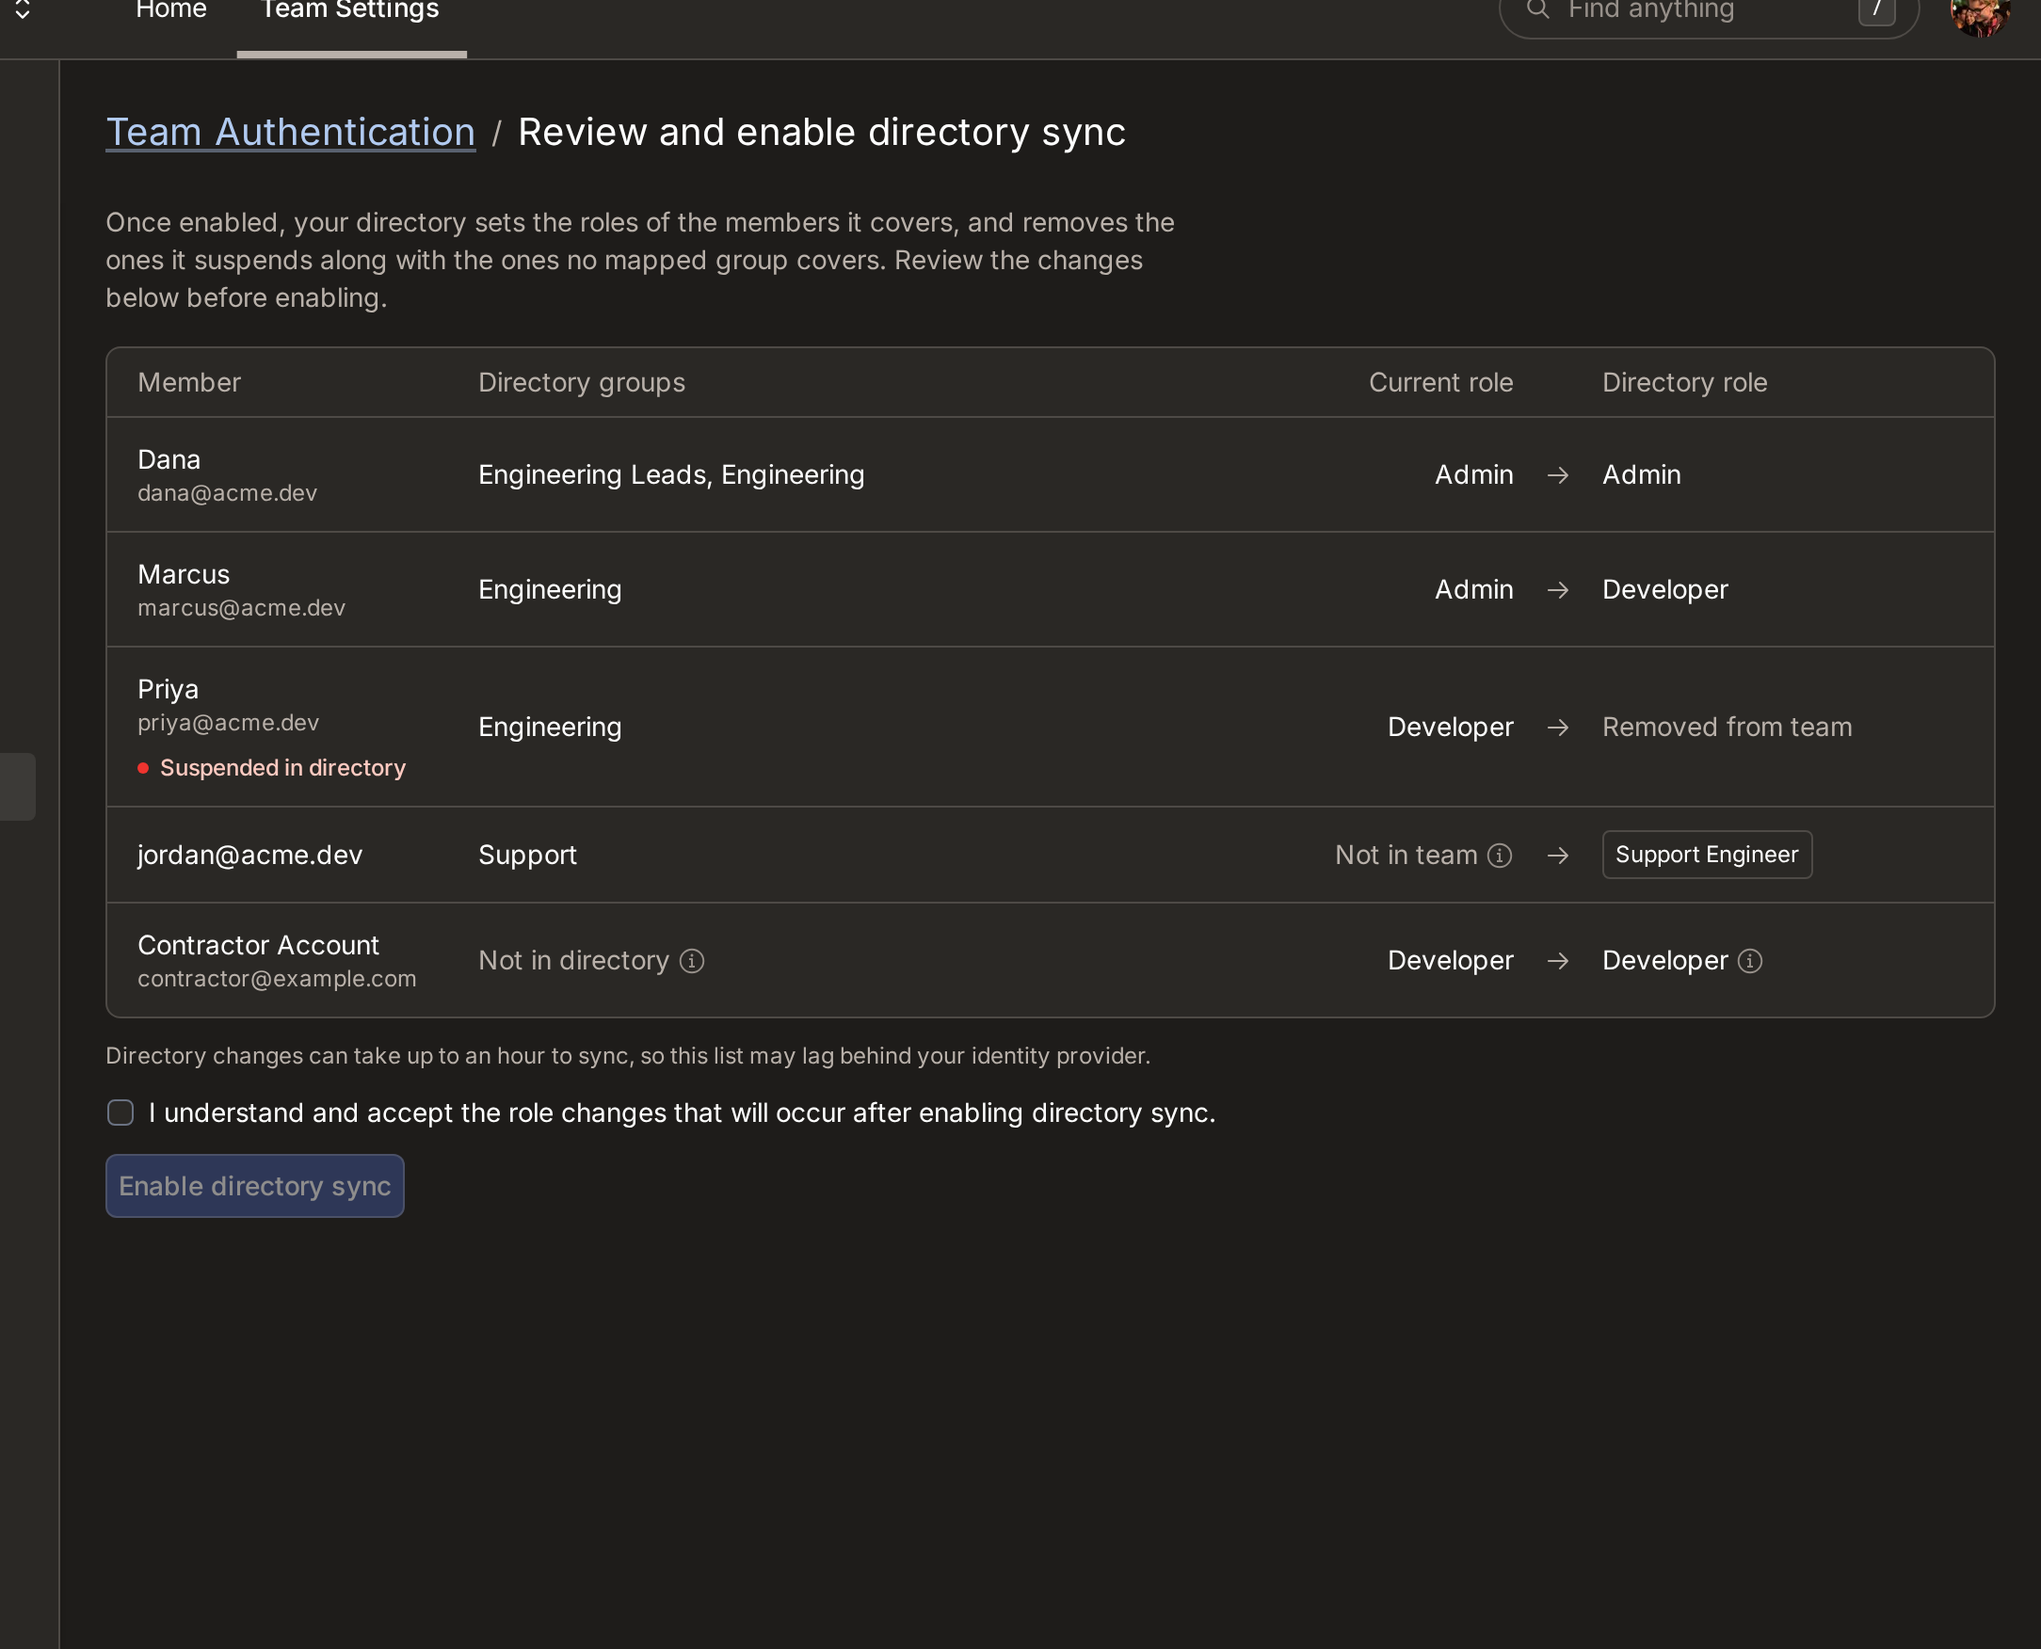
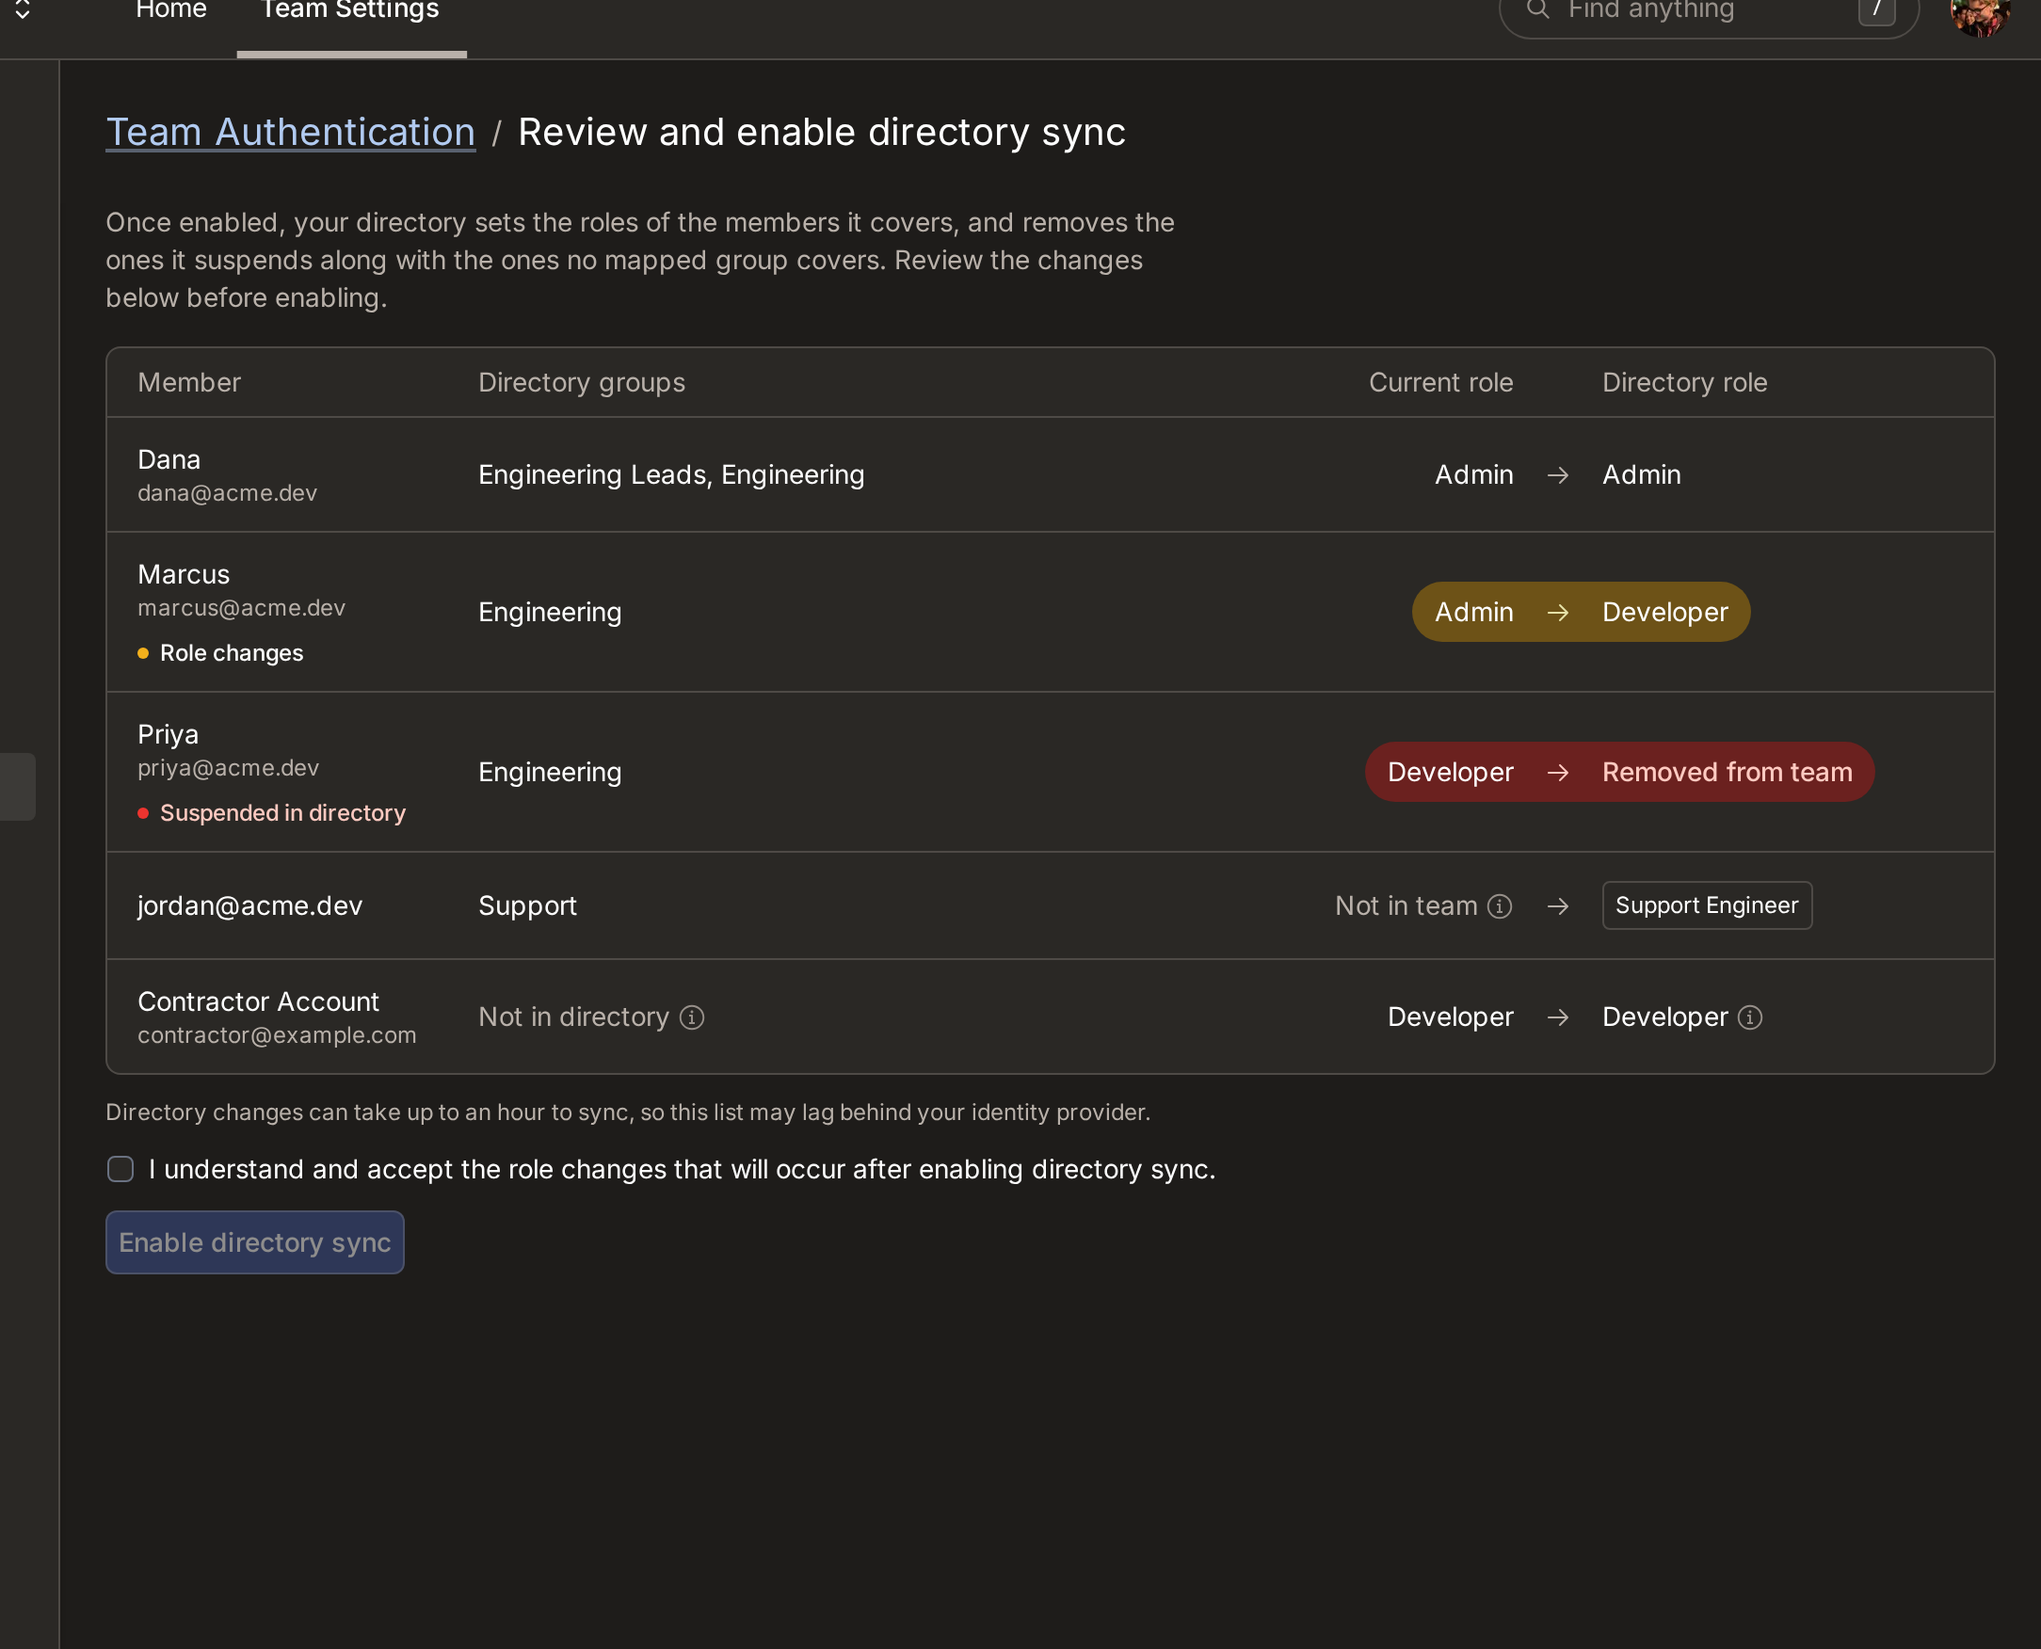
directory-sync: refuse a handover that empties the team or removes the caller (#58445)
GitOrigin-RevId: 583943eb373cb230d67f293e8fb351447c882e9f

diff --git a/npm-packages/dashboard/src/components/teamSettings/teamAuthentication/ReviewDirectoryChanges.tsx b/npm-packages/dashboard/src/components/teamSettings/teamAuthentication/ReviewDirectoryChanges.tsx
@@ -85,6 +85,46 @@ export function classifyStagedItem(item: StagedDirectoryMemberResponse): {
   };
 }
 
+/** What a staged row costs the person it names, which is what it highlights. */
+export type StagedChange = "removed" | "roleChange" | "none";
+
+export function stagedChange(
+  item: StagedDirectoryMemberResponse,
+  { status, roleChanges }: ReturnType<typeof classifyStagedItem>,
+): StagedChange {
+  // A directory user who isn't on the team yet loses nothing by not being
+  // offered it, whatever the directory says about them.
+  if (!item.member) {
+    return "none";
+  }
+  if (status === "suspended" || status === "noAccess") {
+    return "removed";
+  }
+  return roleChanges ? "roleChange" : "none";
+}
+
+// The tint is what the row costs the member, not what the directory says about
+// them: a member no mapped group covers reads as a warning beside their name
+// and still loses their place, so the pill is an error either way.
+const PILL_TONE: Record<StagedChange, string> = {
+  removed: "bg-background-error",
+  roleChange: "bg-background-warning",
+  none: "",
+};
+
+const ARROW_TONE: Record<StagedChange, string> = {
+  removed: "text-content-error",
+  roleChange: "text-content-warning",
+  none: "text-content-secondary",
+};
+
+// The transition reads as one pill across the three cells that make it up. The
+// roles keep their own columns so they stay aligned down the table, so the
+// background is laid on a segment inside each cell rather than on the row: the
+// cells give up the padding between them, the segments carry it instead, and a
+// shared height keeps the join seamless whatever the cells hold.
+const PILL_SEGMENT = "inline-flex h-8 items-center";
+
 export function ReviewDirectoryChanges({
   team,
   enabled,
@@ -120,10 +160,14 @@ export function ReviewDirectoryChanges({
     }
   }, [items, hasMore]);
 
-  const classified = (items ?? []).map((item) => ({
-    item,
-    ...classifyStagedItem(item),
-  }));
+  const classified = (items ?? []).map((item) => {
+    const classification = classifyStagedItem(item);
+    return {
+      item,
+      ...classification,
+      change: stagedChange(item, classification),
+    };
+  });
   return (
     // Claims the pane's height so the table is what scrolls and the
     // acknowledgement below it stays on screen, and stops shrinking at a
@@ -206,7 +250,7 @@ export function ReviewDirectoryChanges({
               </tr>
             </thead>
             <tbody>
-              {classified.map(({ item, status }) => {
+              {classified.map(({ item, status, change }) => {
                 const member = item.member ?? undefined;
                 const directoryUser = item.directoryUser ?? undefined;
                 return (
@@ -250,6 +294,15 @@ export function ReviewDirectoryChanges({
                             />
                           </span>
                         )}
+                        {change === "roleChange" && (
+                          <span className="mt-1">
+                            <StatusDot
+                              label="Role changes"
+                              tone="warning"
+                              tip="The directory confers a different role than this member holds today, so enabling will change it."
+                            />
+                          </span>
+                        )}
                       </div>
                     </td>
                     <td className={TABLE_CELL}>
@@ -280,69 +333,107 @@ export function ReviewDirectoryChanges({
                     </td>
                     {!enabled && (
                       <>
-                        <td className={cn(TABLE_CELL, "whitespace-nowrap")}>
-                          {member ? (
-                            <RoleDisplay
-                              role={member.role}
-                              customRoles={member.customRoles}
-                              teamSlug={team.slug}
-                              align="right"
-                            />
-                          ) : (
-                            <div className="flex items-center justify-end gap-1 text-sm text-content-secondary">
-                              Not in team
-                              <Tooltip
-                                side="left"
-                                aria-label="About directory users who are not on the team"
-                                tip={
-                                  status === "suspended"
-                                    ? "This user is not active in your directory, so they will not be offered the team."
-                                    : status === "noAccess"
-                                      ? "This user is in no directory group, or none of their groups is mapped to a role, so they will not be offered the team."
-                                      : "The Convex member who owns this email address will be offered to join the team once directory sync is enabled."
-                                }
-                              >
-                                <InfoCircledIcon className="text-content-tertiary" />
-                              </Tooltip>
-                            </div>
-                          )}
+                        <td
+                          className={cn(TABLE_CELL, "pr-0 whitespace-nowrap")}
+                        >
+                          <div className="flex justify-end">
+                            <span
+                              className={cn(
+                                PILL_SEGMENT,
+                                "rounded-l-full pr-4 pl-3",
+                                PILL_TONE[change],
+                              )}
+                            >
+                              {member ? (
+                                <RoleDisplay
+                                  role={member.role}
+                                  customRoles={member.customRoles}
+                                  teamSlug={team.slug}
+                                  align="right"
+                                />
+                              ) : (
+                                <div className="flex items-center justify-end gap-1 text-sm text-content-secondary">
+                                  Not in team
+                                  <Tooltip
+                                    side="left"
+                                    aria-label="About directory users who are not on the team"
+                                    tip={
+                                      status === "suspended"
+                                        ? "This user is not active in your directory, so they will not be offered the team."
+                                        : status === "noAccess"
+                                          ? "This user is in no directory group, or none of their groups is mapped to a role, so they will not be offered the team."
+                                          : "The Convex member who owns this email address will be offered to join the team once directory sync is enabled."
+                                    }
+                                  >
+                                    <InfoCircledIcon className="text-content-tertiary" />
+                                  </Tooltip>
+                                </div>
+                              )}
+                            </span>
+                          </div>
                         </td>
                         {/* Every row reads as one role becoming another,
                             whether or not the two differ. */}
                         <td className={cn(TABLE_CELL, "w-0 px-0")}>
-                          <ArrowRightIcon className="text-content-secondary" />
+                          <span className={cn(PILL_SEGMENT, PILL_TONE[change])}>
+                            <ArrowRightIcon className={ARROW_TONE[change]} />
+                          </span>
                         </td>
                       </>
                     )}
-                    <td className={cn(TABLE_CELL, "whitespace-nowrap")}>
-                      {status === "suspended" || status === "noAccess" ? (
-                        <span className="text-sm text-content-secondary">
-                          {member ? "Removed from team" : "Cannot join"}
-                        </span>
-                      ) : directoryUser?.role ? (
-                        <RoleDisplay
-                          role={directoryUser.role}
-                          customRoles={directoryUser.customRoles}
-                          teamSlug={team.slug}
-                        />
-                      ) : member ? (
-                        // The directory does not cover them, so the role
-                        // they hold is the role they keep.
-                        <div className="flex items-center gap-1">
+                    <td
+                      className={cn(
+                        TABLE_CELL,
+                        "whitespace-nowrap",
+                        // The pill only spans the transition, which the
+                        // pending-members view has no columns for.
+                        !enabled && "pl-0",
+                      )}
+                    >
+                      <span
+                        className={cn(
+                          !enabled && [
+                            PILL_SEGMENT,
+                            "rounded-r-full pr-3 pl-4",
+                            PILL_TONE[change],
+                          ],
+                        )}
+                      >
+                        {status === "suspended" || status === "noAccess" ? (
+                          member ? (
+                            <span className="text-sm font-medium text-content-error">
+                              Removed from team
+                            </span>
+                          ) : (
+                            <span className="text-sm text-content-secondary">
+                              Cannot join
+                            </span>
+                          )
+                        ) : directoryUser?.role ? (
                           <RoleDisplay
-                            role={member.role}
-                            customRoles={member.customRoles}
+                            role={directoryUser.role}
+                            customRoles={directoryUser.customRoles}
                             teamSlug={team.slug}
                           />
-                          <Tooltip
-                            side="left"
-                            aria-label="About the role of a member who is not in the directory"
-                            tip="This team member is not listed in the directory, so they keep the role they have today."
-                          >
-                            <InfoCircledIcon className="text-content-tertiary" />
-                          </Tooltip>
-                        </div>
-                      ) : null}
+                        ) : member ? (
+                          // The directory does not cover them, so the role
+                          // they hold is the role they keep.
+                          <div className="flex items-center gap-1">
+                            <RoleDisplay
+                              role={member.role}
+                              customRoles={member.customRoles}
+                              teamSlug={team.slug}
+                            />
+                            <Tooltip
+                              side="left"
+                              aria-label="About the role of a member who is not in the directory"
+                              tip="This team member is not listed in the directory, so they keep the role they have today."
+                            >
+                              <InfoCircledIcon className="text-content-tertiary" />
+                            </Tooltip>
+                          </div>
+                        ) : null}
+                      </span>
                     </td>
                   </tr>
                 );

diff --git a/npm-packages/dashboard/src/components/teamSettings/teamAuthentication/DirectorySyncSheet.tsx b/npm-packages/dashboard/src/components/teamSettings/teamAuthentication/DirectorySyncSheet.tsx
@@ -426,9 +426,22 @@ export function DirectorySyncSheet({ team }: { team: TeamResponse }) {
             variant="danger"
             dialogTitle={disableTitle}
             dialogBody={
-              managementEnabled
-                ? "This disconnects your directory, and team members will no longer be provisioned or deprovisioned by your identity provider. Members already on the team keep their access."
-                : "This disconnects your directory from your identity provider. Directory Sync never started provisioning, so your team members are unaffected."
+              <div className="flex flex-col gap-3 text-sm">
+                <p>
+                  {managementEnabled
+                    ? "This disconnects your directory, and team members will no longer be provisioned or deprovisioned by your identity provider. Members already on the team keep their access."
+                    : "This disconnects your directory from your identity provider. Directory Sync never started provisioning, so your team members are unaffected."}
+                </p>
+                {/* True of both wordings: the teardown deletes the directory
+                    itself, and the groups and mappings keyed off it go with
+                    it. */}
+                <p>
+                  Your directory's groups and their role mappings are discarded
+                  along with it. Setting Directory Sync up again means
+                  connecting the directory and mapping every group to a role
+                  from scratch.
+                </p>
+              </div>
             }
             error={disableError}
             validationText={
